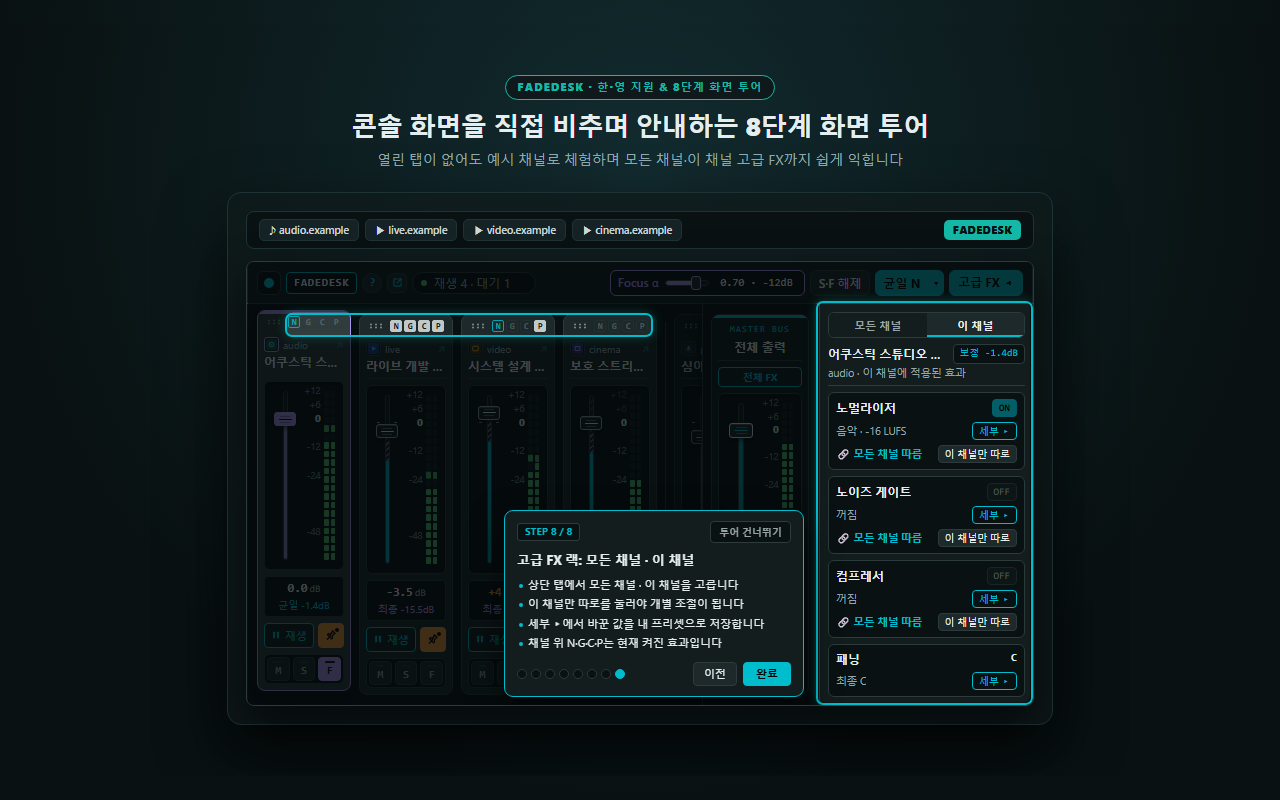
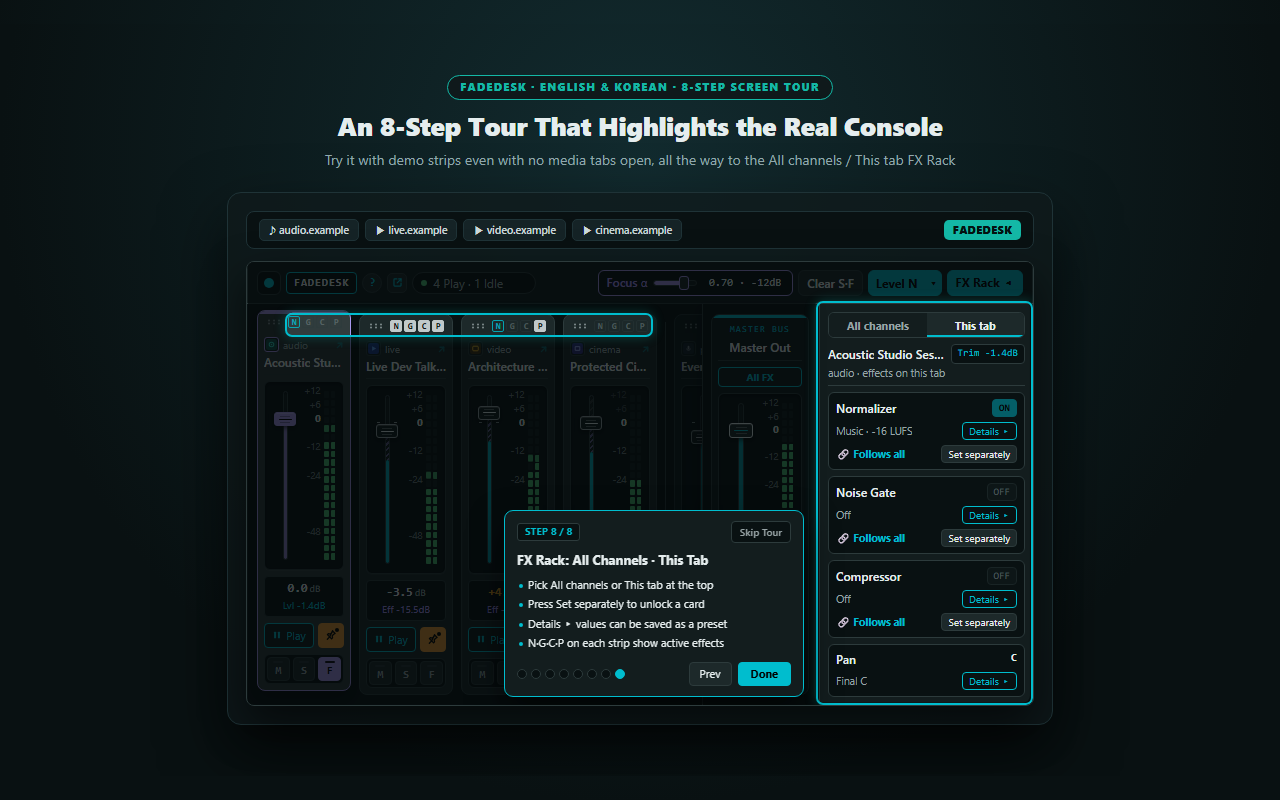
스토어 스크린숏을 영어·한국어 한 벌씩 만든다
스크린숏이 한 벌(1·2번 영어, 3·4번 한국어)뿐이라 스토어의 언어별
등록 페이지와 README에 두 언어 그림이 섞여 들어갔다.

- 장면 4개를 영어(screenshots/)와 한국어(screenshots/ko/)로 각각
  찍는다. 검토를 거친 한국어 문구가 없으면 그 그림은 건너뛴다
- 한국어 1·2번 제목은 Gemini 6차 답을, 영어 3·4번은 새로 쓴다
- 한국어 README는 ko 그림을 쓰고, 스토어 안내 표를 언어별로 나눈다

diff --git a/docs/design/copy-review/10_round6_screenshot_request.md b/docs/design/copy-review/10_round6_screenshot_request.md
@@ -1,0 +1,60 @@
+# Fadedesk 한국어 문구 6차 검토 요청: 한국어 스크린숏 1·2번 제목
+
+## 요청
+
+스토어 스크린숏을 언어별로 한 벌씩 만들기로 했습니다. 지금까지 1·2번은 영어 그림만 있었습니다. 이번에 한국어 1·2번 그림을 새로 만드는데, 그림 위에 얹을 머리표·제목·설명을 써 주세요.
+
+자리와 길이, 용어 규칙은 5차와 같습니다.
+- **머리표**: 40자 이내
+- **제목**: 35자 이내, 한 줄
+- **설명**: 70자 이내, 한 줄
+- 용어: 사이트 고정 핀, 모든 채널 / 이 채널만, Focus = 다른 채널 줄이기, 유효 구간, 내 프리셋
+- 5차에서 받은 3·4번 머리표("FADEDESK · 한·영 지원 & 8단계 화면 투어", "FADEDESK · 콘솔 사용법 & 안전 유의사항")와 꼴을 맞춰 주세요.
+- "그림에 보이는 것"에 없는 기능은 쓰지 마세요.
+
+## 돌려주실 형식
+
+```
+1.kicker: …
+1.headline: …
+1.subtitle: …
+2.kicker: …
+2.headline: …
+2.subtitle: …
+```
+
+---
+
+## 1번 스크린숏 — 콘솔 전체
+
+- **그림에 보이는 것**
+  - 탭 5개가 세로 채널로 나란히 있습니다(어쿠스틱 스튜디오 세션, 라이브 개발 토크 등).
+  - 한 채널은 Focus(F)가 켜져 Focus 색으로 표시되고, 다른 채널은 줄어든 몫이 빗금으로 보입니다.
+  - 오른쪽에 마스터 버스(전체 볼륨, 좌우 레벨 미터, 전체 정지, 전체 음소거)가 있습니다.
+  - 위쪽 바에 Focus α, S·F 해제, 균일 N ▾, 고급 FX ▸ 단추가 있습니다.
+  - 채널마다 재생 단추와 사이트 고정 핀(📌), 아래에 M·S·F 단추가 있습니다.
+- **알릴 것**
+  - 여러 창과 탭의 소리를 한 화면에서 재생·정지하고 볼륨을 조절합니다.
+  - 볼륨은 -60 ~ +12 dB입니다.
+  - M(음소거), S(이 채널만 듣기), F(다른 채널 줄이기)가 있습니다.
+  - 정보를 모으거나 밖으로 보내지 않습니다.
+- **같은 그림의 영어 문구** (참고만 하세요. 번역하지 않아도 됩니다)
+  - 머리표: FADEDESK · PER-TAB STUDIO AUDIO CONSOLE
+  - 제목: Control Volume, Focus Ducking & Playback Across Every Tab
+  - 설명: -60 to +12 dB logarithmic faders · Mute / Solo / Focus (α) · Domain Volume Pin · Zero data collection
+
+## 2번 스크린숏 — 고급 FX 랙과 노멀라이저 세부 창
+
+- **그림에 보이는 것**
+  - 오른쪽 고급 FX 랙이 "이 채널" 탭으로 열려 있습니다.
+  - 노멀라이저·노이즈 게이트·컴프레서 카드는 "이 채널만"으로 켜져 있고, 패닝 카드가 있습니다.
+  - 랙 왼쪽에 "노멀라이저 세부" 창이 열려 있습니다. 프리셋 선택, 유효 구간 그래프(상한·하한), 원음 복귀 속도, 목표 음량, 내 프리셋으로 저장 단추가 보입니다.
+  - 고르고 있는 채널은 바탕이 떠올라 보입니다.
+- **알릴 것**
+  - 효과를 모든 채널에 한 번에 걸거나, 이 채널만 따로 걸 수 있습니다.
+  - 노멀라이저 프리셋은 4종(클래식 · 음악 · 표준 · 야간)이고, 바꾼 값은 내 프리셋으로 저장합니다.
+  - 패닝, 노이즈 게이트, 컴프레서도 있습니다.
+- **같은 그림의 영어 문구** (참고만 하세요)
+  - 머리표: BS.1770 LOUDNESS & FX RACK
+  - 제목: Set Effects for All Channels at Once, or Just This Tab
+  - 설명: 4 loudness presets (Classical · Music · Standard · Night) · My Presets · Pan, Gate & Compressor

diff --git a/README.md b/README.md
@@ -16,7 +16,7 @@
 
 ---
 
-![Fadedesk 다중 탭 오디오 믹서 콘솔 화면](docs/store/screenshots/1-console-overview.png)
+![Fadedesk 다중 탭 오디오 믹서 콘솔 화면](docs/store/screenshots/ko/1-console-overview.png)
 
 ## 이럴 때 씁니다
 
@@ -81,7 +81,7 @@ npm run build
 
 ### 3. 방송 표준 음량 평준화(`균일 N ▾`)와 고급 FX 랙(`모든 채널` · `이 채널`)
 
-![Fadedesk 고급 FX 랙과 세부 창](docs/store/screenshots/2-fx-rack.png)
+![Fadedesk 고급 FX 랙과 세부 창](docs/store/screenshots/ko/2-fx-rack.png)
 
 상단 **`균일 N ▾`** 버튼은 실시간 `ITU-R BS.1770-4` 라우드니스 계측과 `EBU Tech 3341` 시간 창을 바탕으로 탭마다 다른 음량을 자동으로 맞춰 줍니다(새로 설치 시 **음악** 프리셋으로 기본 켜짐).
 
@@ -107,7 +107,7 @@ npm run build
 
 | 8단계 화면 투어 | 기능 위치 안내 그림 & 안전 안내 |
 | :---: | :---: |
-| ![화면 투어](docs/store/screenshots/3-spotlight-tour.png) | ![도움말 및 안전 안내](docs/store/screenshots/4-help-and-safety.png) |
+| ![화면 투어](docs/store/screenshots/ko/3-spotlight-tour.png) | ![도움말 및 안전 안내](docs/store/screenshots/ko/4-help-and-safety.png) |
 
 - **별도 콘솔 창 분리 (`↗`)**: 툴바 팝업을 크기 조절 가능한 별도 창(`최소 520×420` 자동 유지, 위치·크기 기억)으로 떼어내 보조 모니터에 띄워 두고 쓸 수 있습니다.
 - **4종 스튜디오 테마 & Focus 전용 배색**: 4가지 포인트 배색과 다크·라이트·시스템 모드를 조합할 수 있습니다. `Focus`를 켠 채널은 테마별 전용 색으로 표시되며, 페이더에서 실제로 줄어들거나 꺼진 몫은 이유에 따라 다른 색의 빗금(음소거 = 빨강, `Solo`로 꺼짐 = Solo 색, `Focus`로 줄어듦 = Focus 색)으로 한눈에 보여 줍니다.

diff --git a/docs/store/listing.md b/docs/store/listing.md
@@ -89,10 +89,11 @@ Source code & support: https://github.com/Argoneon1810/Fadedesk
 | 카테고리 | `Productivity` → `Tools` (또는 대시보드 분류상 `Make Chrome Yours` → `Functionality & UI`) |
 | 스토어 아이콘 (`128×128`) | `static/icons/icon128.png` (`96×96` 본체 + 사방 `16px` 투명 패딩 규격 반영 완료) |
 | 작은 프로모션 타일 (`440×280`) | `docs/store/promo-440x280.png` (24-bit RGB PNG, 알파 없음) |
-| 스크린샷 1 (`1280×800`) | `docs/store/screenshots/1-console-overview.png` (영문 다중 채널 + Focus + 마스터 스테레오 미터) |
-| 스크린샷 2 (`1280×800`) | `docs/store/screenshots/2-fx-rack.png` (영문 고급 FX 랙 · 모든 채널/이 채널 · 노멀라이저 세부 창) |
-| 스크린샷 3 (`1280×800`) | `docs/store/screenshots/3-spotlight-tour.png` (국문 8단계 화면 투어) |
-| 스크린샷 4 (`1280×800`) | `docs/store/screenshots/4-help-and-safety.png` (국문 인앱 사용법 및 5단계 안전·유의사항 모달) |
+| 스크린샷 (`1280×800`, 언어별 4장) | 영어 등록 페이지: `docs/store/screenshots/1~4-*.png` · 한국어 등록 페이지: `docs/store/screenshots/ko/1~4-*.png` (대시보드 우측 상단 언어 선택기에서 언어마다 그 언어 그림만 올린다) |
+| └ 1 `1-console-overview.png` | 콘솔 전체: 탭 5개 채널 · Focus · 마스터 스테레오 미터 |
+| └ 2 `2-fx-rack.png` | 고급 FX 랙(이 채널) · 노멀라이저 세부 창 |
+| └ 3 `3-spotlight-tour.png` | 화면 투어 8단계(고급 FX 랙 · N·G·C·P 배지) |
+| └ 4 `4-help-and-safety.png` | 도움말 창의 안전 및 유의사항 |
 | 홈페이지 URL | `https://github.com/Argoneon1810/Fadedesk` |
 | 지원 URL | `https://github.com/Argoneon1810/Fadedesk/issues` |
 | 성인 콘텐츠 | 아니오 (`No`) |

diff --git a/docs/design/copy-review/11_round6_applied.md b/docs/design/copy-review/11_round6_applied.md
@@ -1,0 +1,14 @@
+# 6차 Gemini 문구 검토 반영 기록: 한국어 스크린숏 1·2번 제목 (2026-11-18)
+
+- 배경: 스토어 스크린숏이 한 벌(1·2번 영어, 3·4번 한국어)뿐이라, 언어별 등록 페이지와 README에 두 언어가 섞여 들어갔다. 장면 4개를 영어(`docs/store/screenshots/`)와 한국어(`docs/store/screenshots/ko/`)로 한 벌씩 찍게 바꿨다.
+- 요청: `10_round6_screenshot_request.md`. 받은 답을 `scripts/generate-store-assets.mjs`에 그대로 넣었고, 1280px 그림에서 한 줄에 들어가는 것을 확인했다.
+- 영어 3·4번 그림 문구는 Claude가 썼다. 한국어 3·4번은 5차 답(`08_round4_5_applied.md`) 그대로다.
+
+| 그림 | 자리 | 반영 |
+|---|---|---|
+| 1 (콘솔 전체) | 머리표 | FADEDESK · 탭별 오디오 믹서 콘솔 |
+| 1 | 제목 | 모든 탭의 볼륨·재생·집중 청취를 한 화면에서 제어 |
+| 1 | 설명 | -60~+12dB 페이더 · 음소거(M) / Solo(S) / 다른 채널 줄이기(F) · 사이트 고정 핀 · 외부 전송 없음 |
+| 2 (고급 FX 랙) | 머리표 | FADEDESK · 자동 음량 맞춤 & 고급 FX 랙 |
+| 2 | 제목 | 모든 채널에 한 번에, 또는 이 채널만 따로 효과 설정 |
+| 2 | 설명 | 4종 노멀라이저 프리셋 · 유효 구간 조절 및 내 프리셋 저장 · 패닝, 노이즈 게이트, 컴프레서 지원 |
